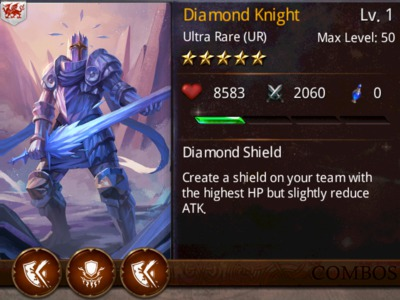
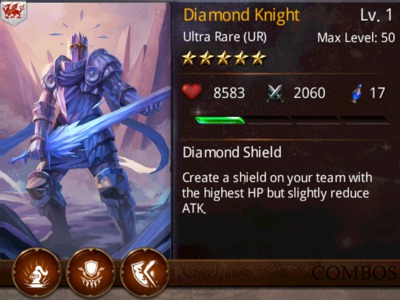
Update cards

Changed region(s): [[0.06, 0.87, 0.12, 0.96], [0.93, 0.27, 0.96, 0.33]]

diff --git a/cards.js b/cards.js
@@ -44,7 +44,7 @@ var cards = [
   new Card("Death", "Demon", 6, "", 60, 12830, 2780, ["Four Horsemen","Pure Evil","Opposite Ends",]),
   new Card("Deathcap", "Druid", 2, 7, 20, 2210, 685, []),
   new Card("Desdemona", "Demon", 5, "", 50, 7124, 2431, ["Undead Party","Dark Arts","Corrupted",]),
-  new Card("Diamond Knight", "Camelot", 5, "", 50, 8583, 2060, ["Suited Up","Defenders","Fearless Fighters",]),
+  new Card("Diamond Knight", "Camelot", 5, 17, 50, 8583, 2060, ["Suited Up","Defenders","Fearless Fighters",]),
   new Card("Dire Bear", "Druid", 3, 7, 30, 2625, 842, ["Wild Pack","Feral Pack",]),
   new Card("Dire Wolf", "Druid", 2, 8, 20, 2545, 780, ["Wild Pack",]),
   new Card("Diviner", "Camelot", 2, 7, 20, 2400, 585, []),
@@ -110,7 +110,7 @@ var cards = [
   new Card("Maiden Exemplar", "Camelot", 5, 17, 50, 8583, 2060, ["Heavy Cavalry","Generals","Shining Armor","Jack of all Trades","Free Spirits",]),
   new Card("Mammoth Beetle", "Druid", 5, "", 50, 8131, 2436, ["Behemoths","Core Dwellers","Goliaths",]),
   new Card("Mara of the Sand", "Druid", 6, 22, 60, 11330, 4013, ["Geomancers","Inner Circle","Desert Guardians",]),
-  new Card("Marble Guardian", "Camelot", 4, "", 40, 6622, 1600, ["Summoned Minions","Defenders","Guardian Constructs","Earthen Might",]),
+  new Card("Marble Guardian", "Camelot", 4, 14, 40, 6622, 1600, ["Summoned Minions","Defenders","Guardian Constructs","Earthen Might",]),
   new Card("Mechanical Knight", "Camelot", 3, 10, 30, 4180, 1020, ["Summoned Minions","Guardian Constructs",]),
   new Card("Merla the Lidless", "Druid", 5, "", 50, 7440, 2312, ["Umbral Spirits","Premeditation",]),
   new Card("Merlin's Dragon", "Camelot", 5, 16, 50, 8065, 1944, ["Fire Breathing","Epic Serpents","Dragon's Blood",]),
@@ -119,7 +119,7 @@ var cards = [
   new Card("Modron", "Demon", 5, "", 50, 4731, 1871, ["Monster Mash",]),
   new Card("Morbius the Cursed", "Demon", 5, "", 50, 5878, 1843, ["Relentless Evil","Unholy Strength","Bone Spirit","Undead Party","Beyond Redemption","League of the Damned",]),
   new Card("Moria", "Camelot", 5, "", 50, 8013, 2654, ["Augmented Arms","Pet Familiars",]),
-  new Card("Myrddin", "Druid", 6, "", 60, 9877, 3024, ["Mystics","Theurgists","Nature Magic","Wise Sages","Inner Circle",]),
+  new Card("Myrddin", "Druid", 6, 20, 60, 9877, 3024, ["Mystics","Theurgists","Nature Magic","Wise Sages","Inner Circle",]),
   new Card("Mystic Raven", "Druid", 2, 5, 20, 1565, 495, []),
   new Card("Nathra Verdaine", "Druid", 5, 18, 50, 8367, 2547, ["Ancient Protectors","Forest Guardians","Epic Serpents","Dragon's Blood",]),
   new Card("Necros the Grim", "Demon", 4, 12, 40, 4734, 1491, ["Cultists","Necromancers","Dark Arts","Warrior Poets","Necro Party",]),
